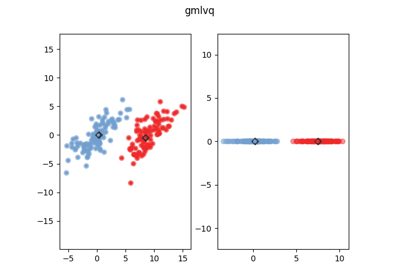
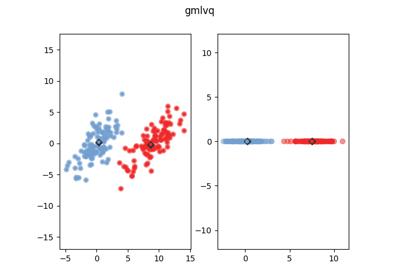
Pushing the docs for revision for branch: master, commit 34077296ef844417d1a38769c3f604ff1e9c4f31

diff --git a/auto_examples/plot_benchmark.html b/auto_examples/plot_benchmark.html
@@ -182,8 +182,8 @@ and classification from each implementation. Because Glvq can’t project the da
 a PCA is used.</p>
 <img alt="../_images/sphx_glr_plot_benchmark_001.png" class="align-center" src="../_images/sphx_glr_plot_benchmark_001.png" />
 <p class="sphx-glr-script-out">Out:</p>
-<div class="sphx-glr-script-out highlight-default notranslate"><div class="highlight"><pre><span></span><span class="p">(</span><span class="s1">&#39;variance coverd by projection:&#39;</span><span class="p">,</span> <span class="mf">98.87190118994363</span><span class="p">)</span>
-<span class="p">(</span><span class="s1">&#39;variance coverd by projection:&#39;</span><span class="p">,</span> <span class="mf">98.90558729272679</span><span class="p">)</span>
+<div class="sphx-glr-script-out highlight-default notranslate"><div class="highlight"><pre><span></span><span class="p">(</span><span class="s1">&#39;variance coverd by projection:&#39;</span><span class="p">,</span> <span class="mf">98.53451921828203</span><span class="p">)</span>
+<span class="p">(</span><span class="s1">&#39;variance coverd by projection:&#39;</span><span class="p">,</span> <span class="mf">98.7633034273355</span><span class="p">)</span>
 </pre></div>
 </div>
 <div class="line-block">
@@ -278,7 +278,7 @@ a PCA is used.</p>
 <span class="n">plt</span><span class="o">.</span><span class="n">show</span><span class="p">()</span>
 </pre></div>
 </div>
-<p><strong>Total running time of the script:</strong> ( 0 minutes  30.026 seconds)</p>
+<p><strong>Total running time of the script:</strong> ( 0 minutes  27.509 seconds)</p>
 <div class="sphx-glr-footer docutils container">
 <div class="sphx-glr-download docutils container">
 <a class="reference download internal" href="../_downloads/plot_benchmark.py" download=""><code class="xref download docutils literal notranslate"><span class="pre">Download</span> <span class="pre">Python</span> <span class="pre">source</span> <span class="pre">code:</span> <span class="pre">plot_benchmark.py</span></code></a></div>

diff --git a/auto_examples/plot_grmlvq.html b/auto_examples/plot_grmlvq.html
@@ -184,9 +184,9 @@ The projected data is shown in the right plot.</p>
 <img alt="../_images/sphx_glr_plot_grmlvq_001.png" class="align-center" src="../_images/sphx_glr_plot_grmlvq_001.png" />
 <p class="sphx-glr-script-out">Out:</p>
 <div class="sphx-glr-script-out highlight-default notranslate"><div class="highlight"><pre><span></span><span class="n">GRMLVQ</span><span class="p">:</span>
-<span class="p">[</span><span class="mf">0.7016113</span> <span class="mf">0.2983887</span><span class="p">]</span>
+<span class="p">[</span><span class="mf">0.68742203</span> <span class="mf">0.31257797</span><span class="p">]</span>
 <span class="p">(</span><span class="s1">&#39;variance coverd by projection:&#39;</span><span class="p">,</span> <span class="mf">100.0</span><span class="p">)</span>
-<span class="p">(</span><span class="s1">&#39;classification accuracy:&#39;</span><span class="p">,</span> <span class="mf">1.0</span><span class="p">)</span>
+<span class="p">(</span><span class="s1">&#39;classification accuracy:&#39;</span><span class="p">,</span> <span class="mf">0.99</span><span class="p">)</span>
 </pre></div>
 </div>
 <div class="line-block">
@@ -218,7 +218,7 @@ The projected data is shown in the right plot.</p>
 <span class="n">plt</span><span class="o">.</span><span class="n">show</span><span class="p">()</span>
 </pre></div>
 </div>
-<p><strong>Total running time of the script:</strong> ( 0 minutes  0.125 seconds)</p>
+<p><strong>Total running time of the script:</strong> ( 0 minutes  0.141 seconds)</p>
 <div class="sphx-glr-footer docutils container">
 <div class="sphx-glr-download docutils container">
 <a class="reference download internal" href="../_downloads/plot_grmlvq.py" download=""><code class="xref download docutils literal notranslate"><span class="pre">Download</span> <span class="pre">Python</span> <span class="pre">source</span> <span class="pre">code:</span> <span class="pre">plot_grmlvq.py</span></code></a></div>

diff --git a/auto_examples/plot_lgmlvq.html b/auto_examples/plot_lgmlvq.html
@@ -186,7 +186,7 @@ The projected data is shown in the right plot.</p>
 <div class="sphx-glr-script-out highlight-default notranslate"><div class="highlight"><pre><span></span><span class="n">LGMLVQ</span><span class="p">:</span>
 <span class="p">(</span><span class="s1">&#39;variance coverd by projection:&#39;</span><span class="p">,</span> <span class="mf">100.0</span><span class="p">)</span>
 <span class="p">(</span><span class="s1">&#39;variance coverd by projection:&#39;</span><span class="p">,</span> <span class="mf">100.0</span><span class="p">)</span>
-<span class="p">(</span><span class="s1">&#39;classification accuracy:&#39;</span><span class="p">,</span> <span class="mf">0.84</span><span class="p">)</span>
+<span class="p">(</span><span class="s1">&#39;classification accuracy:&#39;</span><span class="p">,</span> <span class="mf">0.83</span><span class="p">)</span>
 </pre></div>
 </div>
 <div class="line-block">
@@ -217,7 +217,7 @@ The projected data is shown in the right plot.</p>
 <span class="n">plt</span><span class="o">.</span><span class="n">show</span><span class="p">()</span>
 </pre></div>
 </div>
-<p><strong>Total running time of the script:</strong> ( 0 minutes  0.211 seconds)</p>
+<p><strong>Total running time of the script:</strong> ( 0 minutes  0.360 seconds)</p>
 <div class="sphx-glr-footer docutils container">
 <div class="sphx-glr-download docutils container">
 <a class="reference download internal" href="../_downloads/plot_lgmlvq.py" download=""><code class="xref download docutils literal notranslate"><span class="pre">Download</span> <span class="pre">Python</span> <span class="pre">source</span> <span class="pre">code:</span> <span class="pre">plot_lgmlvq.py</span></code></a></div>

diff --git a/auto_examples/plot_lmrslvq.html b/auto_examples/plot_lmrslvq.html
@@ -187,7 +187,7 @@ right plot.</p>
 <div class="sphx-glr-script-out highlight-default notranslate"><div class="highlight"><pre><span></span><span class="n">LMRSLVQ</span><span class="p">:</span>
 <span class="p">(</span><span class="s1">&#39;variance coverd by projection:&#39;</span><span class="p">,</span> <span class="mf">100.0</span><span class="p">)</span>
 <span class="p">(</span><span class="s1">&#39;variance coverd by projection:&#39;</span><span class="p">,</span> <span class="mf">100.0</span><span class="p">)</span>
-<span class="p">(</span><span class="s1">&#39;classification accuracy:&#39;</span><span class="p">,</span> <span class="mf">0.745</span><span class="p">)</span>
+<span class="p">(</span><span class="s1">&#39;classification accuracy:&#39;</span><span class="p">,</span> <span class="mf">0.765</span><span class="p">)</span>
 </pre></div>
 </div>
 <div class="line-block">
@@ -218,7 +218,7 @@ right plot.</p>
 <span class="n">plt</span><span class="o">.</span><span class="n">show</span><span class="p">()</span>
 </pre></div>
 </div>
-<p><strong>Total running time of the script:</strong> ( 0 minutes  4.131 seconds)</p>
+<p><strong>Total running time of the script:</strong> ( 0 minutes  4.662 seconds)</p>
 <div class="sphx-glr-footer docutils container">
 <div class="sphx-glr-download docutils container">
 <a class="reference download internal" href="../_downloads/plot_lmrslvq.py" download=""><code class="xref download docutils literal notranslate"><span class="pre">Download</span> <span class="pre">Python</span> <span class="pre">source</span> <span class="pre">code:</span> <span class="pre">plot_lmrslvq.py</span></code></a></div>

diff --git a/auto_examples/plot_gmlvq.html b/auto_examples/plot_gmlvq.html
@@ -216,7 +216,7 @@ The projected data is shown in the right plot.</p>
 <span class="n">plt</span><span class="o">.</span><span class="n">show</span><span class="p">()</span>
 </pre></div>
 </div>
-<p><strong>Total running time of the script:</strong> ( 0 minutes  0.108 seconds)</p>
+<p><strong>Total running time of the script:</strong> ( 0 minutes  0.104 seconds)</p>
 <div class="sphx-glr-footer docutils container">
 <div class="sphx-glr-download docutils container">
 <a class="reference download internal" href="../_downloads/plot_gmlvq.py" download=""><code class="xref download docutils literal notranslate"><span class="pre">Download</span> <span class="pre">Python</span> <span class="pre">source</span> <span class="pre">code:</span> <span class="pre">plot_gmlvq.py</span></code></a></div>

diff --git a/auto_examples/plot_grlvq.html b/auto_examples/plot_grlvq.html
@@ -217,7 +217,7 @@ The projected data is shown in the right plot.</p>
 <span class="n">plt</span><span class="o">.</span><span class="n">show</span><span class="p">()</span>
 </pre></div>
 </div>
-<p><strong>Total running time of the script:</strong> ( 0 minutes  3.214 seconds)</p>
+<p><strong>Total running time of the script:</strong> ( 0 minutes  4.389 seconds)</p>
 <div class="sphx-glr-footer docutils container">
 <div class="sphx-glr-download docutils container">
 <a class="reference download internal" href="../_downloads/plot_grlvq.py" download=""><code class="xref download docutils literal notranslate"><span class="pre">Download</span> <span class="pre">Python</span> <span class="pre">source</span> <span class="pre">code:</span> <span class="pre">plot_grlvq.py</span></code></a></div>

diff --git a/auto_examples/plot_mrslvq.html b/auto_examples/plot_mrslvq.html
@@ -218,7 +218,7 @@ right plot.</p>
 <span class="n">plt</span><span class="o">.</span><span class="n">show</span><span class="p">()</span>
 </pre></div>
 </div>
-<p><strong>Total running time of the script:</strong> ( 0 minutes  1.852 seconds)</p>
+<p><strong>Total running time of the script:</strong> ( 0 minutes  2.530 seconds)</p>
 <div class="sphx-glr-footer docutils container">
 <div class="sphx-glr-download docutils container">
 <a class="reference download internal" href="../_downloads/plot_mrslvq.py" download=""><code class="xref download docutils literal notranslate"><span class="pre">Download</span> <span class="pre">Python</span> <span class="pre">source</span> <span class="pre">code:</span> <span class="pre">plot_mrslvq.py</span></code></a></div>

diff --git a/auto_examples/plot_rslvq.html b/auto_examples/plot_rslvq.html
@@ -215,7 +215,7 @@ not implemented!
 <span class="n">plt</span><span class="o">.</span><span class="n">show</span><span class="p">()</span>
 </pre></div>
 </div>
-<p><strong>Total running time of the script:</strong> ( 0 minutes  0.780 seconds)</p>
+<p><strong>Total running time of the script:</strong> ( 0 minutes  0.815 seconds)</p>
 <div class="sphx-glr-footer docutils container">
 <div class="sphx-glr-download docutils container">
 <a class="reference download internal" href="../_downloads/plot_rslvq.py" download=""><code class="xref download docutils literal notranslate"><span class="pre">Download</span> <span class="pre">Python</span> <span class="pre">source</span> <span class="pre">code:</span> <span class="pre">plot_rslvq.py</span></code></a></div>
